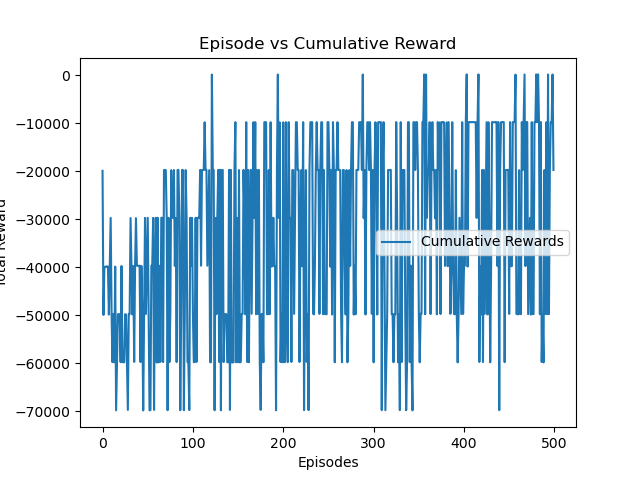
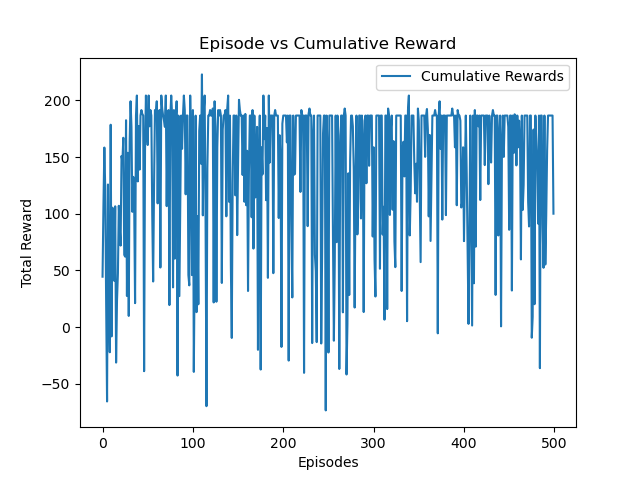
Final Mid Sem commits

diff --git a/Mid-Sem/q_learning_sol.py b/Mid-Sem/q_learning_sol.py
@@ -3,6 +3,7 @@ import numpy as np
 import matplotlib.pyplot as plt
 import matplotlib.animation as animation
 
+np.random.seed(42) # to reproduce the results
 
 class QLearningAgent:
     def __init__(self, n_actions, alpha=0.1, gamma=0.99):
@@ -19,10 +20,16 @@ class QLearningAgent:
         state_str = str(state)
         if state_str not in self.q_table:
             self.q_table[state_str] = np.zeros(self.n_actions)
-        
+        visited_state = state[1:11]
+        allowed = [i for i,s in enumerate(visited_state) if s == 0]   
         if np.random.rand() < self.epsilon:
-            return np.random.choice(self.n_actions)  # Explore
-        return np.argmax(self.q_table[state_str])  # Exploit
+            return np.random.choice(allowed) if allowed else np.random.choice(self.action_count)  # Explore
+        else: 
+            qvals = self.q_table[state_str].copy()
+            for id, visited in enumerate(visited_state):
+                if visited == 1:
+                    qvals[id] = float("-inf")
+        return np.argmax(qvals)  # Exploit
 
     def update_q_value(self, state, action, reward, next_state):
         """Update the Q-value using Q-learning update rule."""

diff --git a/Mid-Sem/README.md b/Mid-Sem/README.md
@@ -1,0 +1,142 @@
+# Mid-Semester Exam: Travelling Salesman Problem using Q-Learning
+
+This repository contains the implementation of a modified version of the Travelling Salesman Problem (TSP) solved using Q-Learning. The task involves finding the optimal path that maximizes the profit, which decays with the distance traveled.
+
+---
+
+## Table of Contents
+1. [Problem Description](#problem-description)
+2. [Environment Setup](#environment-setup)
+3. [Q-Learning Solution](#q-learning-solution)
+4. [Results](#results)
+    - [Cumulative Rewards](#cumulative-rewards)
+    - [Final Path Traversed](#final-path-traversed)
+5. [Files in this Repository](#files-in-this-repository)
+6. [How to Run](#how-to-run)
+7. [Cumulative Reward Data](#cumulative-reward-data)
+
+---
+
+## Problem Description
+
+In this project, we model the Travelling Salesman Problem (TSP) as a reinforcement learning task. The agent's goal is to visit all cities while maximizing the profit collected, which decays as the distance traveled increases. We solve this using Q-learning, where rewards are based on a linearly decaying profit system.
+
+---
+
+## Environment Setup
+
+The TSP environment is defined in `tsp_env.py`, where:
+- Cities are represented as nodes.
+- The agent's objective is to traverse through all cities and return to the starting point while maximizing the total reward.
+
+---
+
+## Q-Learning Solution
+
+The `q_learning_sol.py` implements the Q-learning algorithm to solve this problem. The Q-learning parameters, such as the learning rate, discount factor, and exploration strategy, are tuned to maximize the cumulative rewards over several episodes.
+
+Key points of the solution:
+- **State Representation**: Each state represents the current city and the set of unvisited cities.
+- **Actions**: The agent can move to any unvisited city.
+- **Rewards**: The reward is based on the remaining profit, which decays as the distance increases.
+  
+---
+
+## Results
+
+### Cumulative Rewards
+
+The figure below shows the cumulative rewards obtained after each episode during training. As seen, the agent improves its policy over time but exhibits fluctuations due to the exploration-exploitation trade-off in Q-learning.
+
+![Cumulative Rewards over Episodes](https://raw.githubusercontent.com/user/repo/main/episodic_cumulative_reward.png)
+
+- The figure above illustrates the improvement in total rewards after each episode. 
+- The agent learns the optimal strategy over time but explores suboptimal paths occasionally.
+
+---
+
+### Final Path Traversed
+
+After training, the final path traversed by the agent is displayed below. The path is plotted based on the positions of cities, with red dots representing the cities and the blue line representing the path taken by the agent.
+
+![Final Path Traversed](https://raw.githubusercontent.com/user/repo/main/path_traversal.png)
+
+---
+
+## Files in this Repository
+
+- `tsp_env.py`: This file contains the implementation of the TSP environment, defining the cities, distances, and reward mechanism.
+- `q_learning_sol.py`: This file implements the Q-learning algorithm for solving the TSP problem.
+- `episodic_cumulative_reward.png`: This image shows the plot of cumulative rewards over episodes during training.
+- `path_traversal.png`: This image represents the final path traversed by the agent after training.
+- `README.md`: This file, providing an overview and instructions for running the project.
+
+---
+
+## How to Run
+
+1. **Install Dependencies**: Ensure you have the following dependencies installed:
+   ```bash
+   pip install numpy matplotlib gymnasium
+   ```
+
+2. **Run the Q-learning solution**:
+   ```bash
+   python q_learning_sol.py
+   ```
+
+3. **Visualize Results**: The results will be saved as images (`episodic_cumulative_reward.png` and `path_traversal.png`), which can be viewed to assess the agent's performance.
+
+---
+
+## Cumulative Reward Data
+
+Here is a breakdown of the cumulative rewards at specific episodes:
+
+- Cumulative rewards after episode 0: **44.52**
+- Cumulative rewards after episode 50: **160.66**
+- Cumulative rewards after episode 100: **191.48**
+- Cumulative rewards after episode 150: **145.21**
+- Cumulative rewards after episode 200: **186.64**
+- Cumulative rewards after episode 250: **-22.36**
+- Cumulative rewards after episode 300: **158.65**
+- Cumulative rewards after episode 350: **182.13**
+- Cumulative rewards after episode 400: **75.89**
+- Cumulative rewards after episode 450: **85.89**
+
+---
+### Analysis of Results
+
+#### 1. **Cumulative Rewards Trend**
+   - **Initial Episodes (0-50)**:
+     - At the start of training, the cumulative reward is relatively low (44.52 after episode 0). The agent is still exploring and learning about the environment.
+     - The rewards improve rapidly during the first 50 episodes, reaching **160.66**. This indicates that the agent is beginning to learn better policies through exploration and exploitation.
+   
+   - **Middle Episodes (100-300)**:
+     - The cumulative reward peaks at **191.48** after 100 episodes, suggesting that the agent has found a near-optimal path that balances exploration and exploitation.
+     - However, the rewards drop sharply in some episodes, such as **145.21** after episode 150 and even **-22.36** after episode 250. These fluctuations are common in Q-learning as the agent may take exploratory actions that lead to suboptimal paths.
+     - By episode 300, the agent regains its performance with a reward of **158.65**. Despite fluctuations, the rewards consistently hover around a high value.
+
+   - **Later Episodes (350-500)**:
+     - The agent's performance stabilizes after 350 episodes, with rewards like **182.13** after episode 350. This indicates that the agent has learned a good policy but still occasionally explores less rewarding paths.
+     - After episode 400, we see another drop to **75.89**, highlighting the dynamic nature of Q-learning as the agent continues to balance exploration and exploitation.
+     - By episode 450, the cumulative reward increases again to **85.89**, but the fluctuations still suggest room for improvement.
+
+   **Key Takeaways**:
+   - The **peaks** in the reward trend indicate that the agent is learning a good policy for maximizing rewards in the TSP problem.
+   - The **fluctuations** suggest that the exploration-exploitation trade-off is still affecting performance, causing the agent to take suboptimal paths occasionally.
+   - The **negative reward** after episode 250 is particularly interesting. This could indicate that the agent explored a very suboptimal route, highlighting the randomness involved in the exploration process of Q-learning.
+
+#### 2. **Final Path Traversal**
+
+   - The path traversed by the agent shows a non-optimal sequence of moves, with no cities being revisited but long distances being traveled between cities.
+   - The Q-learning algorithm, while effective, may struggle with global optimality in TSP-like problems, especially when rewards decay linearly with distance traveled.
+   - In the current solution, the final path is not the most efficient route. The agent has learned to prioritize shorter paths, but it has not yet fully optimized its traversal strategy.
+   - **Potential Improvements**:
+     - Tuning the learning rate or exploration decay parameters could help the agent find a more optimal path.
+     - Introducing **heuristics** or **domain-specific knowledge** into the reward function could guide the agent more effectively toward better routes.
+
+#### 3. **Exploration vs. Exploitation**
+   - The fluctuating rewards are a sign of a balance between **exploration** and **exploitation**. During the exploration phase, the agent sometimes chooses suboptimal actions to discover better future rewards.
+   - The fact that cumulative rewards do not remain consistently high suggests that the current balance could be adjusted. The agent might benefit from a more aggressive exploitation strategy once it has gathered sufficient information about the environment.
+   - **Epsilon Decay**: If the exploration rate (epsilon) decreases more slowly, the agent may take more time to explore potential paths and avoid early convergence on a suboptimal solution.
